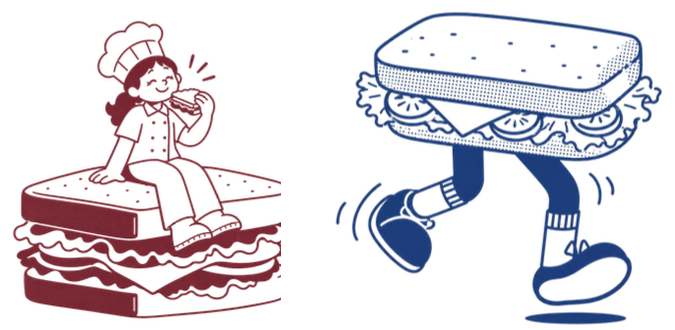
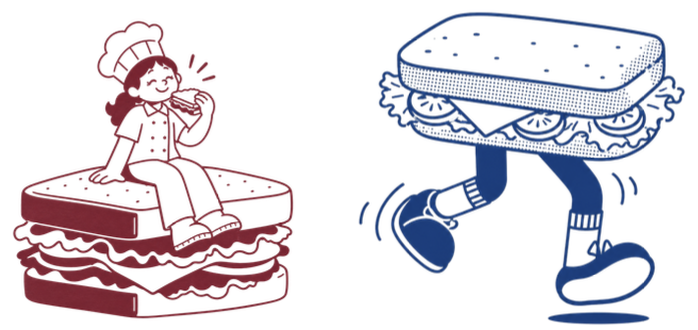
Menu: add sandwich ingredient descriptions, fix sandwich illustration crop

diff --git a/user/pages/03.menu/10.signature-sandwiches/menu-category.md b/user/pages/03.menu/10.signature-sandwiches/menu-category.md
@@ -4,11 +4,11 @@ group: Sandwiches
 tone: blue
 decor: sandwich-boy
 items:
-    - { name: 'Pulled Beef Sub' }
-    - { name: 'Cuban Mortadella' }
-    - { name: 'Mushroom Chicken' }
-    - { name: 'Tangi Pastrami' }
-    - { name: 'Jalapeno Chicken' }
-    - { name: 'Vegetable Surprise' }
-    - { name: 'TarTar Chicken' }
+    - { name: 'Pulled Beef Sub', description: 'Slow-cooked pulled beef coated in smoky BBQ sauce with rich, savory flavors. Served in a soft, buttery brioche bun for an indulgent gourmet experience.' }
+    - { name: 'Cuban Mortadella', description: 'Premium mortadella layered with fresh, flavorful fillings and creamy dressing. Served in wholesome multi-grain bread for a rich and satisfying bite.' }
+    - { name: 'Mushroom Chicken', description: 'Succulent chicken paired with savory mushrooms and a rich, creamy signature sauce. Toasted sourdough adds the perfect rustic finish to this premium sandwich.' }
+    - { name: 'Tangi Pastrami', description: 'Tender, flavorful pastrami paired with fresh toppings and a delicious signature dressing. Finished in multi-grain bread for a hearty and balanced sandwich.' }
+    - { name: 'Jalapeno Chicken', description: 'Tender seasoned chicken combined with spicy jalapeños and creamy, flavorful dressing. Served on toasted sourdough for a bold, zesty and satisfying experience.' }
+    - { name: 'Vegetable Surprise', description: 'A delicious mix of fresh vegetables, creamy spread, and flavorful seasonings. Soft white bread brings everything together in a light yet satisfying bite.' }
+    - { name: 'Tartar Chicken', description: 'Juicy chicken tossed in creamy tartar sauce, served in fresh sourdough bread.' }
 ---

diff --git a/user/pages/03.menu/11.premium-sandwiches/menu-category.md b/user/pages/03.menu/11.premium-sandwiches/menu-category.md
@@ -5,6 +5,6 @@ tone: red-light
 decor: sandwich-duo
 description: 'Add fries on the side.'
 items:
-    - { name: 'Pesto Sandwich' }
-    - { name: 'Pulled Beef BBQ Brioche' }
+    - { name: 'Pesto Sandwich', description: 'Tender chicken tossed with fragrant pesto herbs and creamy, fresh flavors. Served in wholesome oatmeal bread for a deliciously balanced premium sandwich.' }
+    - { name: 'Pulled Beef BBQ Brioche', description: 'Tender slow-cooked pulled beef packed with rich flavors and our signature sauce. Served warm in a soft hot bun for a hearty and comforting sandwich.' }
 ---
